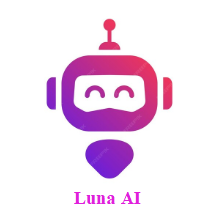
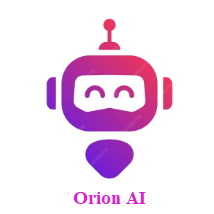
Add frontend chatbot widget updated-20

Changed region(s): [[0.3364, 0.8972, 0.6729, 0.9533]]

diff --git a/chatbot.js b/chatbot.js
@@ -20,16 +20,16 @@ class PortfolioChatbot {
         const chatbotHTML = `
             <div id="chatbot-container">
                 <div id="chat-icon">
-                    <img src="LunaAI.png" alt="LunaAI" />
-                    <div id="chatbot-popup">Hey, I'm Luna! Chat with me!</div>
+                    <img src="LunaAI.png" alt="OrionAI" />
+                    <div id="chatbot-popup">Hey, I'm Orion! Chat with me!</div>
                 </div>
                 <div id="chat-window">
                     <div class="chat-header">
-                        <span>LunaAI</span>
+                        <span>OrionAI</span>
                         <button id="close-chat" title="Close">&times;</button>
                     </div>
                     <div id="chat-messages">
-                        <div class="bot-message">Hi! I'm LunaAI, Ron Jo's AI assistant. Ask me anything about Ron's experience, projects, or skills!</div>
+                        <div class="bot-message">Hi! I'm OrionAI, Ron Jo's AI assistant. Ask me anything about Ron's experience, projects, or skills!</div>
                     </div>
                     <div id="name-modal">
                         <div>Please enter your name:</div>
@@ -380,7 +380,7 @@ class PortfolioChatbot {
             } else if (response.needsEmailCollection) {
                 this.showEmailCollection();
             } else {
-                this.addMessage(response.response, 'bot');
+                this.addMessage(response.response.replace(/LunaAI/g, 'OrionAI').replace(/Luna AI/g, 'Orion AI'), 'bot');
             }
         } catch (error) {
             this.hideTypingIndicator();
